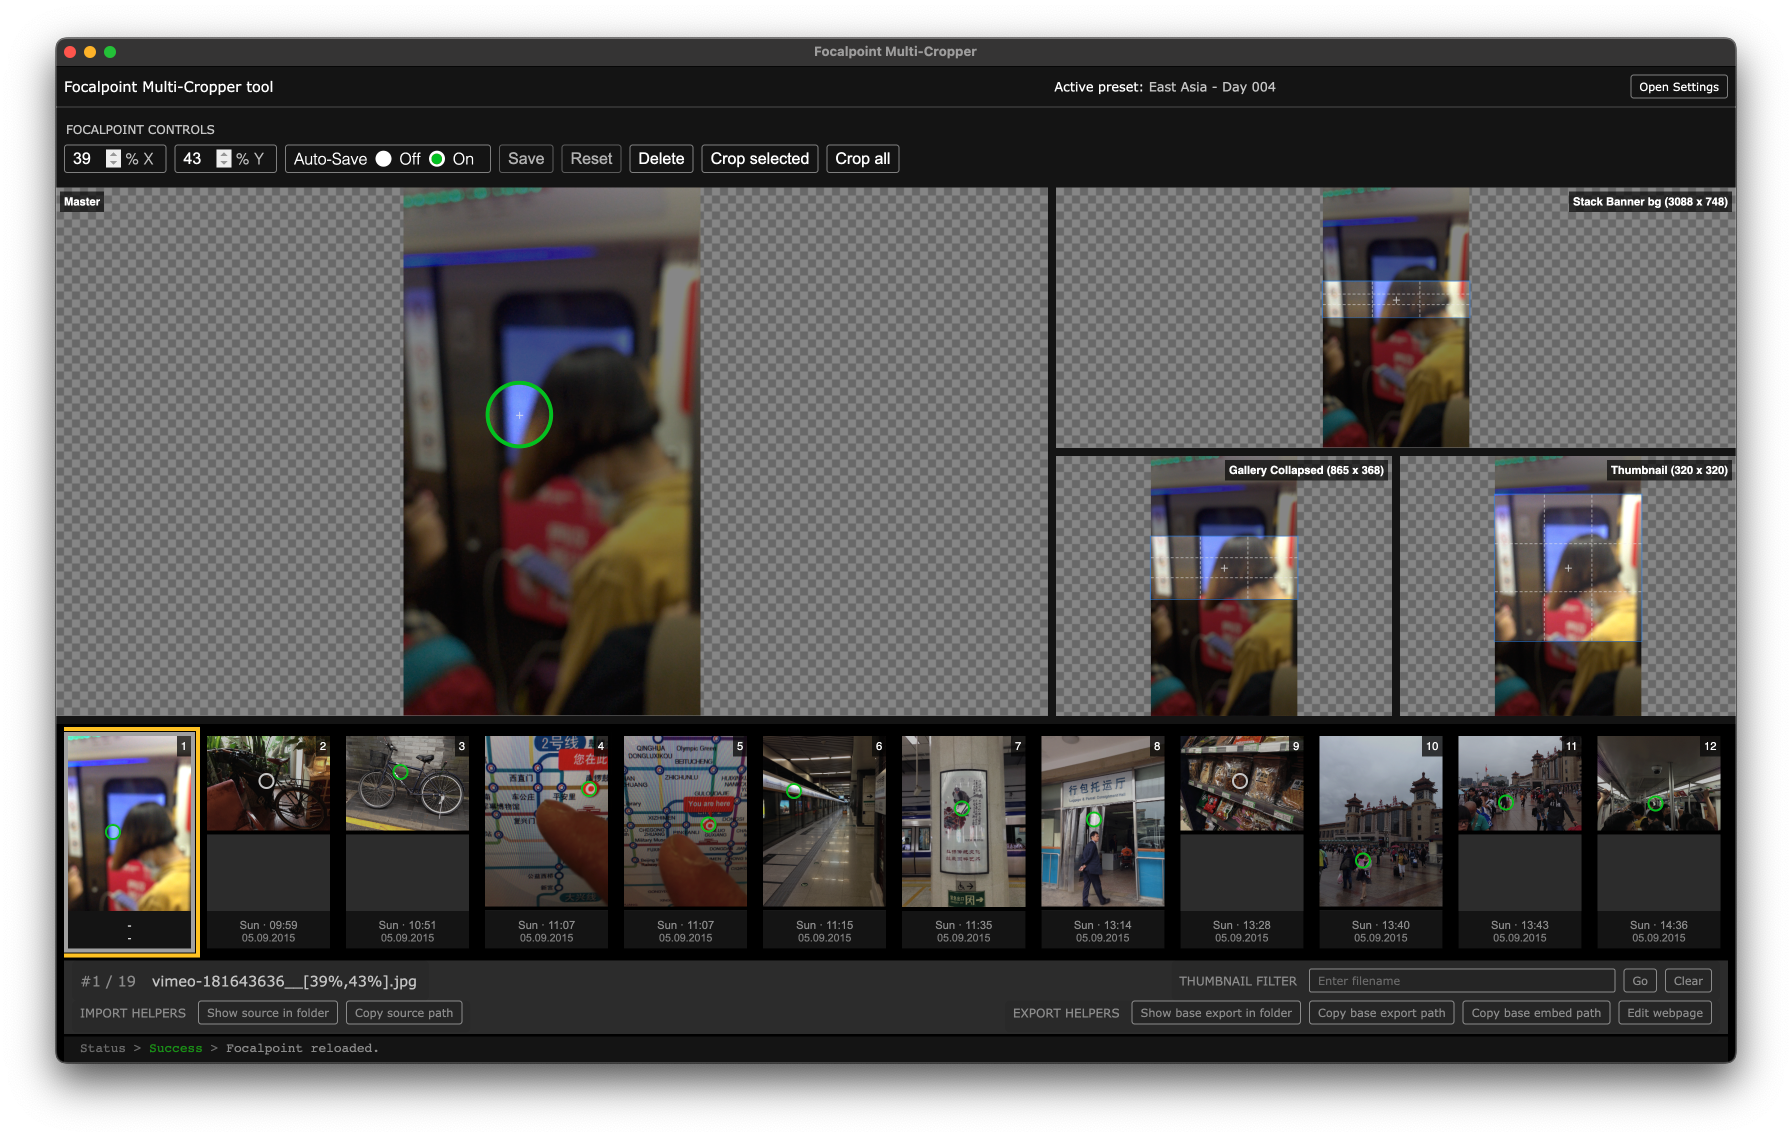
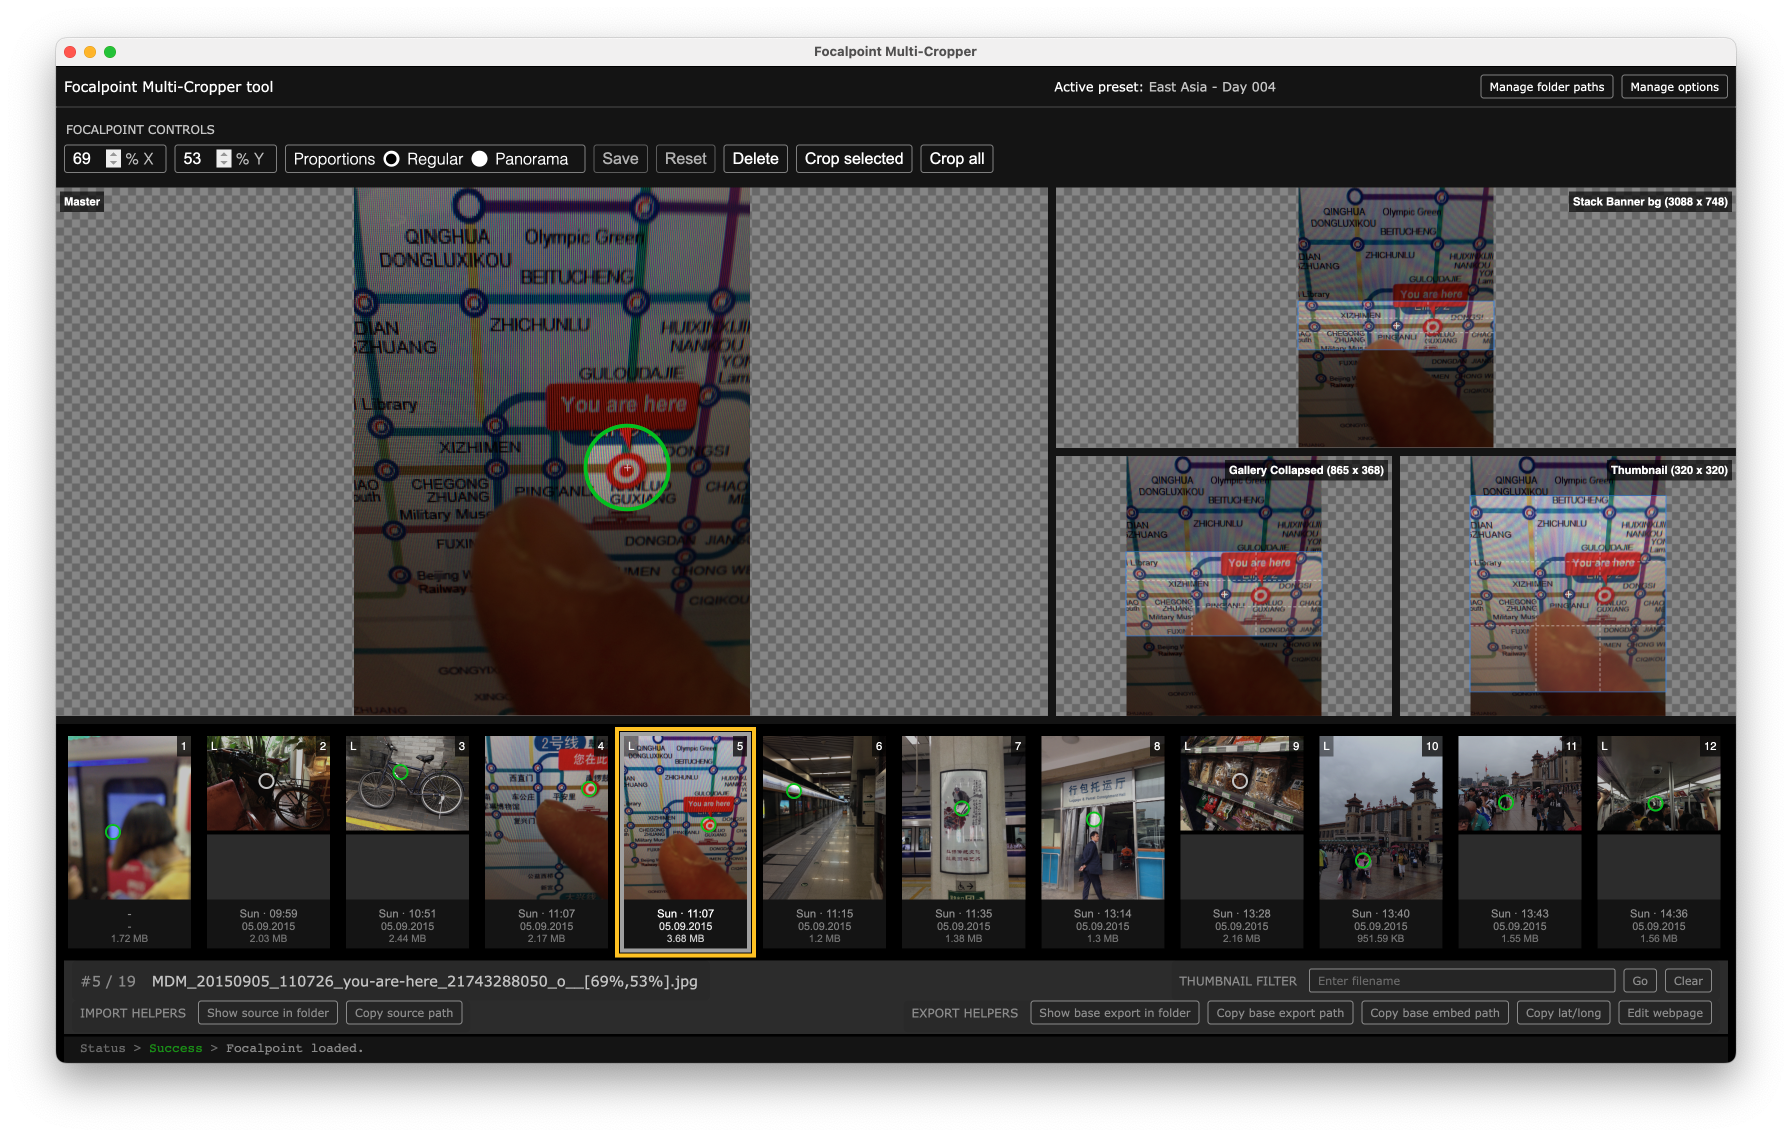
Update screenshots and documentation

diff --git a/README.md b/README.md
@@ -4,6 +4,10 @@
 
 <img src="screenshot-2.png">
 
+<img src="screenshot-3.png">
+
+<img src="screenshot-4.png">
+
 ## Features
 
 * **Preview** - Single window containing multiple instances of [cropperjs](https://github.com/fengyuanchen/cropperjs) - one master cropper and one or more slave croppers with user-defined `exportWidth` and `exportHeight` proportions
@@ -11,12 +15,13 @@
 * **Filter** - Filter thumbnails by partial filename
 * **Set focalpoint** - Click the master cropper image or use the number inputs to set a focalpoint, slave croppers' crop boxes will automatically follow
 * **Rounding** - Round focalpoint XY to integers for easier storage
-* **Storage** - Toggle on auto-save to write a non-default focalpoint to the image filename as a resolution-independent percentage of its width and height (integers), e.g. `foo__[40%,37%].jpg`
+* **Storage** - Toggle on auto-save to write a non-default focalpoint to the image filename as a resolution-independent percentage of its width and height (integers), e.g. `foo__[40%,37%].jpg` (regular) or `bar__[40%,37%,P].jpg` (panorama)
 * **Reset** - Remove user changes and reapply the focalpoint stored in the image filename, or the defaults
 * **Delete** - Delete the focalpoint and remove non-default focalpoint from the image filename
 * **Resize & Crop** - Use [gm](https://github.com/aheckmann/gm) to `resizeAndCrop` from the slave croppers' crop boxes, and `resize` from the hidden non-cropper inclusions
 * **Locate** - Easily open the source and target image folders to keep track of where files are
 * **Embed** - Copy paths including a relative link suitable for pasting into a Markdown document or webpage, optionally output a target cross on the image
+* **Geotag** - Copy latitude/longitude information if available
 * **Restore** - Settings are restored when reopening the Electron app
 * **Presets** - Store a batch of settings in userData (macOS: `/Users/NAME/Library/Application Support/focalpoint-multi-cropper/user-preferences.json`)
 
